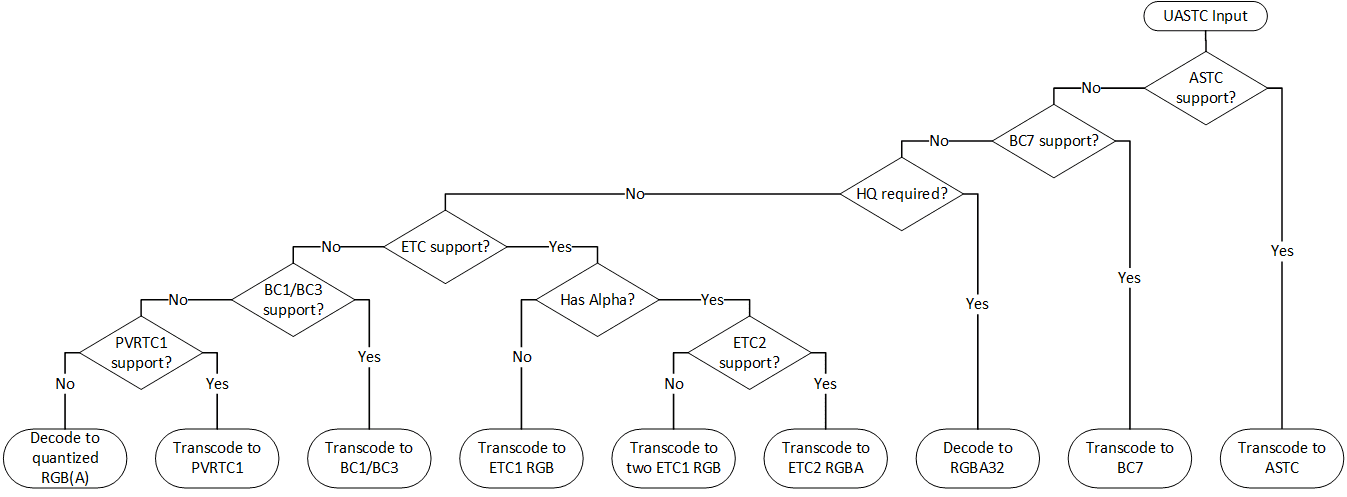
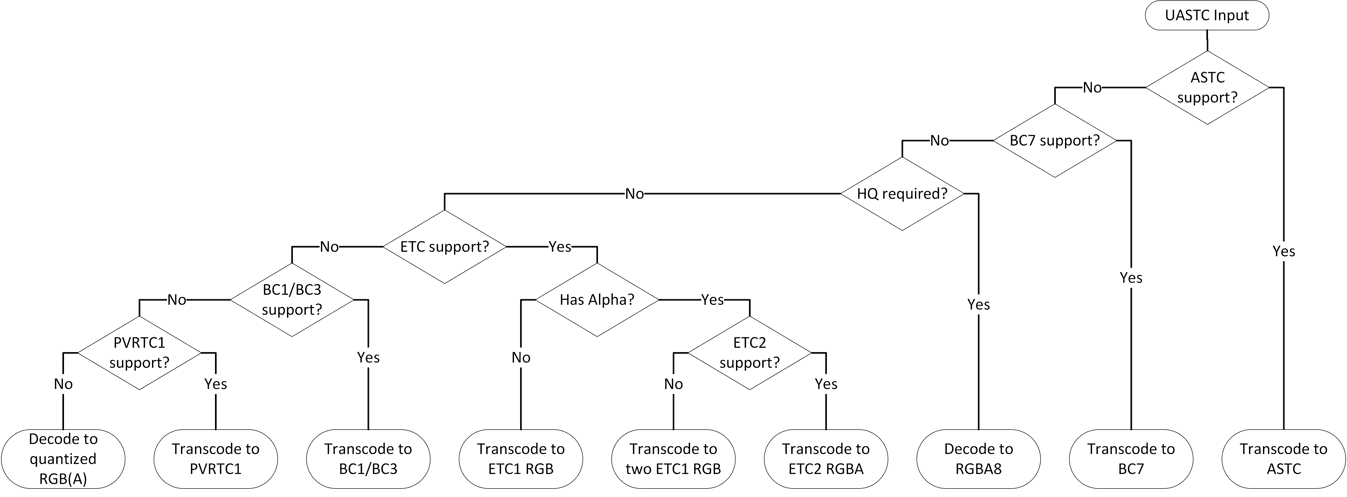
Address feedback & add more sections

diff --git a/DeveloperGuide.md b/DeveloperGuide.md
@@ -6,11 +6,59 @@
 
 <!-- libKTX vs lightweight parsers TBD -->
 
+## Block-based Compression
+
+To support random access, compressed textures are usually organized in blocks of the same size. Basis Universal always uses blocks of 4 by 4 pixels.
+
+To calculate the number of blocks for a given texture (e.g. to estimate required GPU memory), applications should use the following expressions:
+```
+WIDTH_IN_BLOCKS = (WIDTH_IN_PIXELS + 3) >> 2;
+HEIGHT_IN_BLOCKS = (HEIGHT_IN_PIXELS + 3) >> 2;
+
+BLOCK_COUNT = WIDTH_IN_BLOCKS * HEIGHT_IN_BLOCKS;
+```
+
+Applications should expect that dimensions of a base mip level are 1, 2, or multiples of 4. Inputs that do not follow this restriction are invalid and should be rejected.
+
+The dimensions of subsequent mip levels follow the regular rule of truncating division by 2. For example, 
+
+| Mip Level | Width x Height, px | Width x Height, blocks |
+|:-:|-:|-:|
+| 0 | 100 x 200 | 25 x 50 |
+| 1 | 50 x 100 | 13 x 25 |
+| 2 | 25 x 50 | 7 x 13 |
+| 3 | 12 x 25 | 3 x 7 |
+| 4 | 6 x 12 | 2 x 3 |
+| 5 | 3 x 6 | 1 x 2 |
+| 6 | 1 x 3 | 1 x 1 |
+| 7 | 1 x 1 | 1 x 1 |
+
+Here, the base mip level fully fills `25 x 50` compressed blocks. The following levels have some padding to fill the unused pixels in the compressed blocks. Such padding (when present) does not affect texture coordinates wrapping and cannot be accessed during sampling.
+
+Some older platforms (e.g. WebGL 1.0) may require all textures to have power-of-2 dimensions. In such a case, applications have no other choice but to decompress and rescale textures that do not have power-of-2 dimensions thus losing all benefits of GPU texture compression.
+
 ## ETC1S / BasisLZ Codec
 
 ### Overview
 
 ETC1S / BasisLZ is a hybrid compression scheme that features rearranged ETC1S texture block data with a custom LZ-style lossless compression. It achieves very high storage / transmission efficiency by prioritizing luma information. Thus, this codec is more suited for color textures (albedo, base color, etc) rather than arbitrary non-color data like normal maps.
+
+After decoding LZ compression, ETC1S data could be losslessly repacked as regular ETC1 texture blocks or transcoded to other GPU block-compressed formats.
+
+### Data Layout
+
+ETC1S represents a subset of ETC1 so compressed data always has three color channels internally. To support use cases other than opaque color textures, compressed data may contain an extra ETC1S "slice".
+
+> **Note**: In KTX v2 container, each ETC1S slice is marked with a specific `channelType`.
+
+Supported configurations include:
+
+| Channels | First Slice | Second Slice | Typical Usage |
+|-|-|-|-|
+| RGB | `KHR_DF_CHANNEL_ETC1S_RGB` | Not present | Opaque color texture |
+| RGBA | `KHR_DF_CHANNEL_ETC1S_RGB` | `KHR_DF_CHANNEL_ETC1S_AAA` | Color texture with alpha channel |
+| Red | `KHR_DF_CHANNEL_ETC1S_RRR` | Not Present | Single-channel texture |
+| Red-Green | `KHR_DF_CHANNEL_ETC1S_RRR` | `KHR_DF_CHANNEL_ETC1S_GGG` | Dual-channel texture |
 
 ### Runtime usage
 
@@ -23,21 +71,64 @@ Using ETC1S / BasisLZ data comprises three steps:
 
 3. Uploading transcoded data to the GPU.
 
-When the texture data uses non-linear sRGB encoding (virtually all color textures do that), applications should use hardware sRGB decoders to get correct filtering. This could be easily achieved by uploading compressed data with proper texture format enum, see specific values below.
+   When the texture data uses non-linear sRGB encoding (virtually all color textures do that), applications should use hardware sRGB decoders to get correct filtering. This could be easily achieved by uploading compressed data with proper texture format enum, see specific values below.
 
-### Transcode Target Selection
+   > **Note:** Single-channel (Red) and dual-channel (Red-Green) textures do not support sRGB encoding.
 
-- By design, ETC1S is a strict subset of ETC1 so transcoding it to ETC formats is always preferred. Depending on alpha channel presence, applications should use the appropriate format enums.
+### Transcode Target Selection (RGB and RGBA)
+
+- By design, ETC1S is a strict subset of ETC1 so transcoding it to ETC formats is always preferred. Single-slice textures should be transcoded to ETC1 RGB while dual-slice textures should be transcoded to ETC2 RGBA.
+  > **Note:** ETC1 RGB is a strict subset of ETC2 RGB.
+
+  > **Note**: On platforms that support only ETC1, applications could transcode each ETC1S slice to its own ETC1 texture and use two texture samplers simultaneously.
 
 - On desktop GPUs without ETC support, applications should transcode to BC7.
+  > **Note:** BC7 always supports alpha channel. For opaque (single-slice) ETC1S inputs, the reference transcoder produces BC7 blocks with alpha values set to `255`.
 
-- On older desktops without BC7 support, applications should transcode to BC1 or BC3 depending on alpha channel presence.
+- On older desktops without BC7 support, RGB (single-slice) textures should be transcoded to BC1, while RGBA (dual-slice) textures should be transcoded to BC3.
 
-- Transcoding to PVRTC1 is also supported but should be used only if other options are not available. Also note that the reference PVRTC1 transcoder supports only textures with power-of-2 dimensions.
+- Transcoding to PVRTC1 is also supported but should be used only if other options are not available.
+  > **Note:** The reference PVRTC1 transcoder supports only textures with power-of-2 dimensions.
 
-- In an unfortunate situation where the platform supports none of aforementioned compressed texture formats, ETC1S data could be decoded to uncompressed RGBA pixels.
+- In an unfortunate situation where the platform supports none of aforementioned compressed texture formats, ETC1S data could be decoded to uncompressed RGBA.
 
 ![ETC1S Target Format Selection Flowchart](figures/ETC1S_targets.png)
+
+### Transcode Target Selection (Red)
+
+- As with RGB data, ETC1 is the most preferred option.
+  > **Note**: Green and blue channels will have the same value as red during sampling.
+
+  > **Note**: EAC R11 may be used when sampling from semantically unused channels (Green and Blue) is required to return zeros and texture swizzling is not supported.
+
+- On desktop GPUs without ETC1 support, applications should transcode to BC4.
+  > **Note**: Green and blue channels will return zeros during sampling.
+
+- On very old desktops without BC4 support, applications should transcode to BC1.
+  > **Note**: Green and blue channels will have the same value as red during sampling. If possible, applications should prefer sampling from green channel of the transcoded texture as it may experience slightly less loss from transcoding.
+
+- Transcoding to PVRTC1 should be used only if other options are not available.
+  > **Note:** The reference PVRTC1 transcoder supports only textures with power-of-2 dimensions.
+
+  > **Note**: Green and blue channels will have the same value as red during sampling.
+
+- As a last resort, ETC1S data could be decoded to uncompressed R8 or RGBA8 pixels.
+
+![ETC1S Target Format Selection Flowchart](figures/ETC1S_targets_red.png)
+
+### Transcode Target Selection (Red-Green)
+
+- Since Red-Green ETC1S textures contain two independently-encoded slices, EAC RG11 is the most preferred option.
+  > **Note**: Blue channel will return zero during sampling.
+
+  > **Note**: On platforms that support only ETC1, applications could transcode each ETC1S slice to its own ETC1 texture and use two texture samplers simultaneously.
+
+- On desktop GPUs without ETC support, applications should transcode to BC5.
+  > **Note**: Blue channel will return zero during sampling.
+
+- As a last resort, ETC1S data could be decoded to uncompressed RG8 or RGBA8 pixels.
+
+![ETC1S Target Format Selection Flowchart](figures/ETC1S_targets_red_green.png)
 
 ## UASTC Codec
 
@@ -55,7 +146,7 @@ When the texture data uses non-linear sRGB encoding (virtually all color texture
 
 ### Primary Transcode Targets
 
-By design, UASTC is optimized for fast and predictable transcoding to ASTC and BC7. Transcoding to ASTC is always lossless (e.g. it would match decoding to RGBA32), transcoding to BC7 is almost lossless.
+By design, UASTC is optimized for fast and predictable transcoding to ASTC and BC7. Transcoding to ASTC is always lossless (e.g. it would match decoding to RGBA8), transcoding to BC7 is almost lossless.
 
 ASTC should be the default choice when ASTC LDR support is available.
 
@@ -147,6 +238,32 @@ The transcoded data uses 16 bytes per each 4x4 block.
 | Direct3D | `9_1` feature level or higher | `DXGI_FORMAT_BC3_UNORM_SRGB` | `DXGI_FORMAT_BC3_UNORM` |
 | Metal | `MTLGPUFamilyMac1`-compatible GPU | `MTLPixelFormatBC3_RGBA_sRGB` | `MTLPixelFormatBC3_RGBA` |
 
+#### BC4
+
+The transcoded data uses 8 bytes per each 4x4 block.
+
+| API | Feature Detection | Linear Format |
+|-|-|-|
+| Vulkan | `textureCompressionBC` device feature | `VK_FORMAT_BC4_UNORM_BLOCK` |
+| WebGL | `EXT_texture_compression_rgtc` extension | `COMPRESSED_RED_RGTC1_EXT` |
+| OpenGL | `ARB_texture_compression_rgtc` extension | `GL_COMPRESSED_RED_RGTC1_EXT` |
+| OpenGL ES | `GL_EXT_texture_compression_rgtc` extension | `GL_COMPRESSED_RED_RGTC1_EXT` |
+| Direct3D | `10_0` feature level or higher | `DXGI_FORMAT_BC4_UNORM` |
+| Metal | `MTLGPUFamilyMac1`-compatible GPU | `MTLPixelFormatBC4_RUnorm` |
+
+#### BC5
+
+The transcoded data uses 16 bytes per each 4x4 block.
+
+| API | Feature Detection | Linear Format |
+|-|-|-|
+| Vulkan | `textureCompressionBC` device feature | `VK_FORMAT_BC5_UNORM_BLOCK` |
+| WebGL | `EXT_texture_compression_rgtc` extension | `COMPRESSED_RED_GREEN_RGTC2_EXT` |
+| OpenGL | `ARB_texture_compression_rgtc` extension | `GL_COMPRESSED_RED_GREEN_RGTC2_EXT` |
+| OpenGL ES | `GL_EXT_texture_compression_rgtc` extension | `GL_COMPRESSED_RED_GREEN_RGTC2_EXT` |
+| Direct3D | `10_0` feature level or higher | `DXGI_FORMAT_BC5_UNORM` |
+| Metal | `MTLGPUFamilyMac1`-compatible GPU | `MTLPixelFormatBC5_RGUnorm` |
+
 #### BC7
 
 The transcoded data uses 16 bytes per each 4x4 block.
@@ -194,6 +311,19 @@ The transcoded data uses 16 bytes per each 4x4 block.
 
 > **Note**: Applications running on OpenGL ES 2.0 contexts or WebGL contexts backed by OpenGL ES 2.0 may transcode data to two ETC1 textures: one for RGB and another for alpha. Refer to the previous section for more notes on using ETC1 hardware.
 
+#### EAC RG11
+
+The transcoded data uses 16 bytes per each 4x4 block.
+
+| API | Feature Detection | Linear Format |
+|-|-|-|
+| Vulkan | `textureCompressionETC2` device feature | `VK_FORMAT_EAC_R11G11_UNORM_BLOCK` |
+| WebGL | `WEBGL_compressed_texture_etc` extension | `COMPRESSED_RG11_EAC` |
+| OpenGL | `GL_ARB_ES3_compatibility` extension | `GL_COMPRESSED_RG11_EAC` |
+| OpenGL ES | Version 3.0 or higher | `GL_COMPRESSED_RG11_EAC` |
+| Direct3D | N/A | N/A |
+| Metal | `MTLGPUFamilyApple1`-compatible GPU | `MTLPixelFormatEAC_RG11Unorm` |
+
 #### PVRTC1
 
 The transcoded data uses 8 bytes per each 4x4 block.
@@ -211,7 +341,7 @@ The transcoded data uses 8 bytes per each 4x4 block.
 
 ### Uncompressed Formats
 
-#### RGBA32
+#### RGBA8
 
 The decoded data size must be computed from image dimensions in pixels (not blocks) as
 ```
@@ -243,6 +373,36 @@ width * height * 2
 | Direct3D | WDDM 1.2 or newer | `DXGI_FORMAT_B5G6R5_UNORM` | N/A |
 | Metal | `MTLGPUFamilyApple1`-compatible GPU | `MTLPixelFormatB5G6R5Unorm` | `MTLPixelFormatABGR4Unorm` |
 
-> **Note**: WebGL applications should be cautious with using these formats because they will be emulated as RGBA32 when the underlying platform does not support packed 16-bit formats natively.
+> **Note**: WebGL applications should be cautious with using these formats because they will be emulated as RGBA8 when the underlying platform does not support packed 16-bit formats natively.
 
 > **Note**: There is no hardware sRGB decoding support for packed formats. Applications would need to decode sRGB values with a fragment shader.
+
+#### R8
+
+The decoded data size must be computed from image dimensions in pixels (not blocks) as
+```
+width * height * 1
+```
+
+| API | Linear Format |
+|-|-|
+| Vulkan | `VK_FORMAT_R8_UNORM` |
+| WebGL 2.0 | `R8` |
+| OpenGL (ES) | `GL_R8` |
+| Direct3D | `DXGI_FORMAT_R8_UNORM` |
+| Metal | `MTLPixelFormatR8Unorm` |
+
+#### RG8
+
+The decoded data size must be computed from image dimensions in pixels (not blocks) as
+```
+width * height * 2
+```
+
+| API | Linear Format |
+|-|-|
+| Vulkan | `VK_FORMAT_R8G8_UNORM` |
+| WebGL 2.0 | `RG8` |
+| OpenGL (ES) | `GL_RG8` |
+| Direct3D | `DXGI_FORMAT_R8G8_UNORM` |
+| Metal | `MTLPixelFormatRG8Unorm` |
